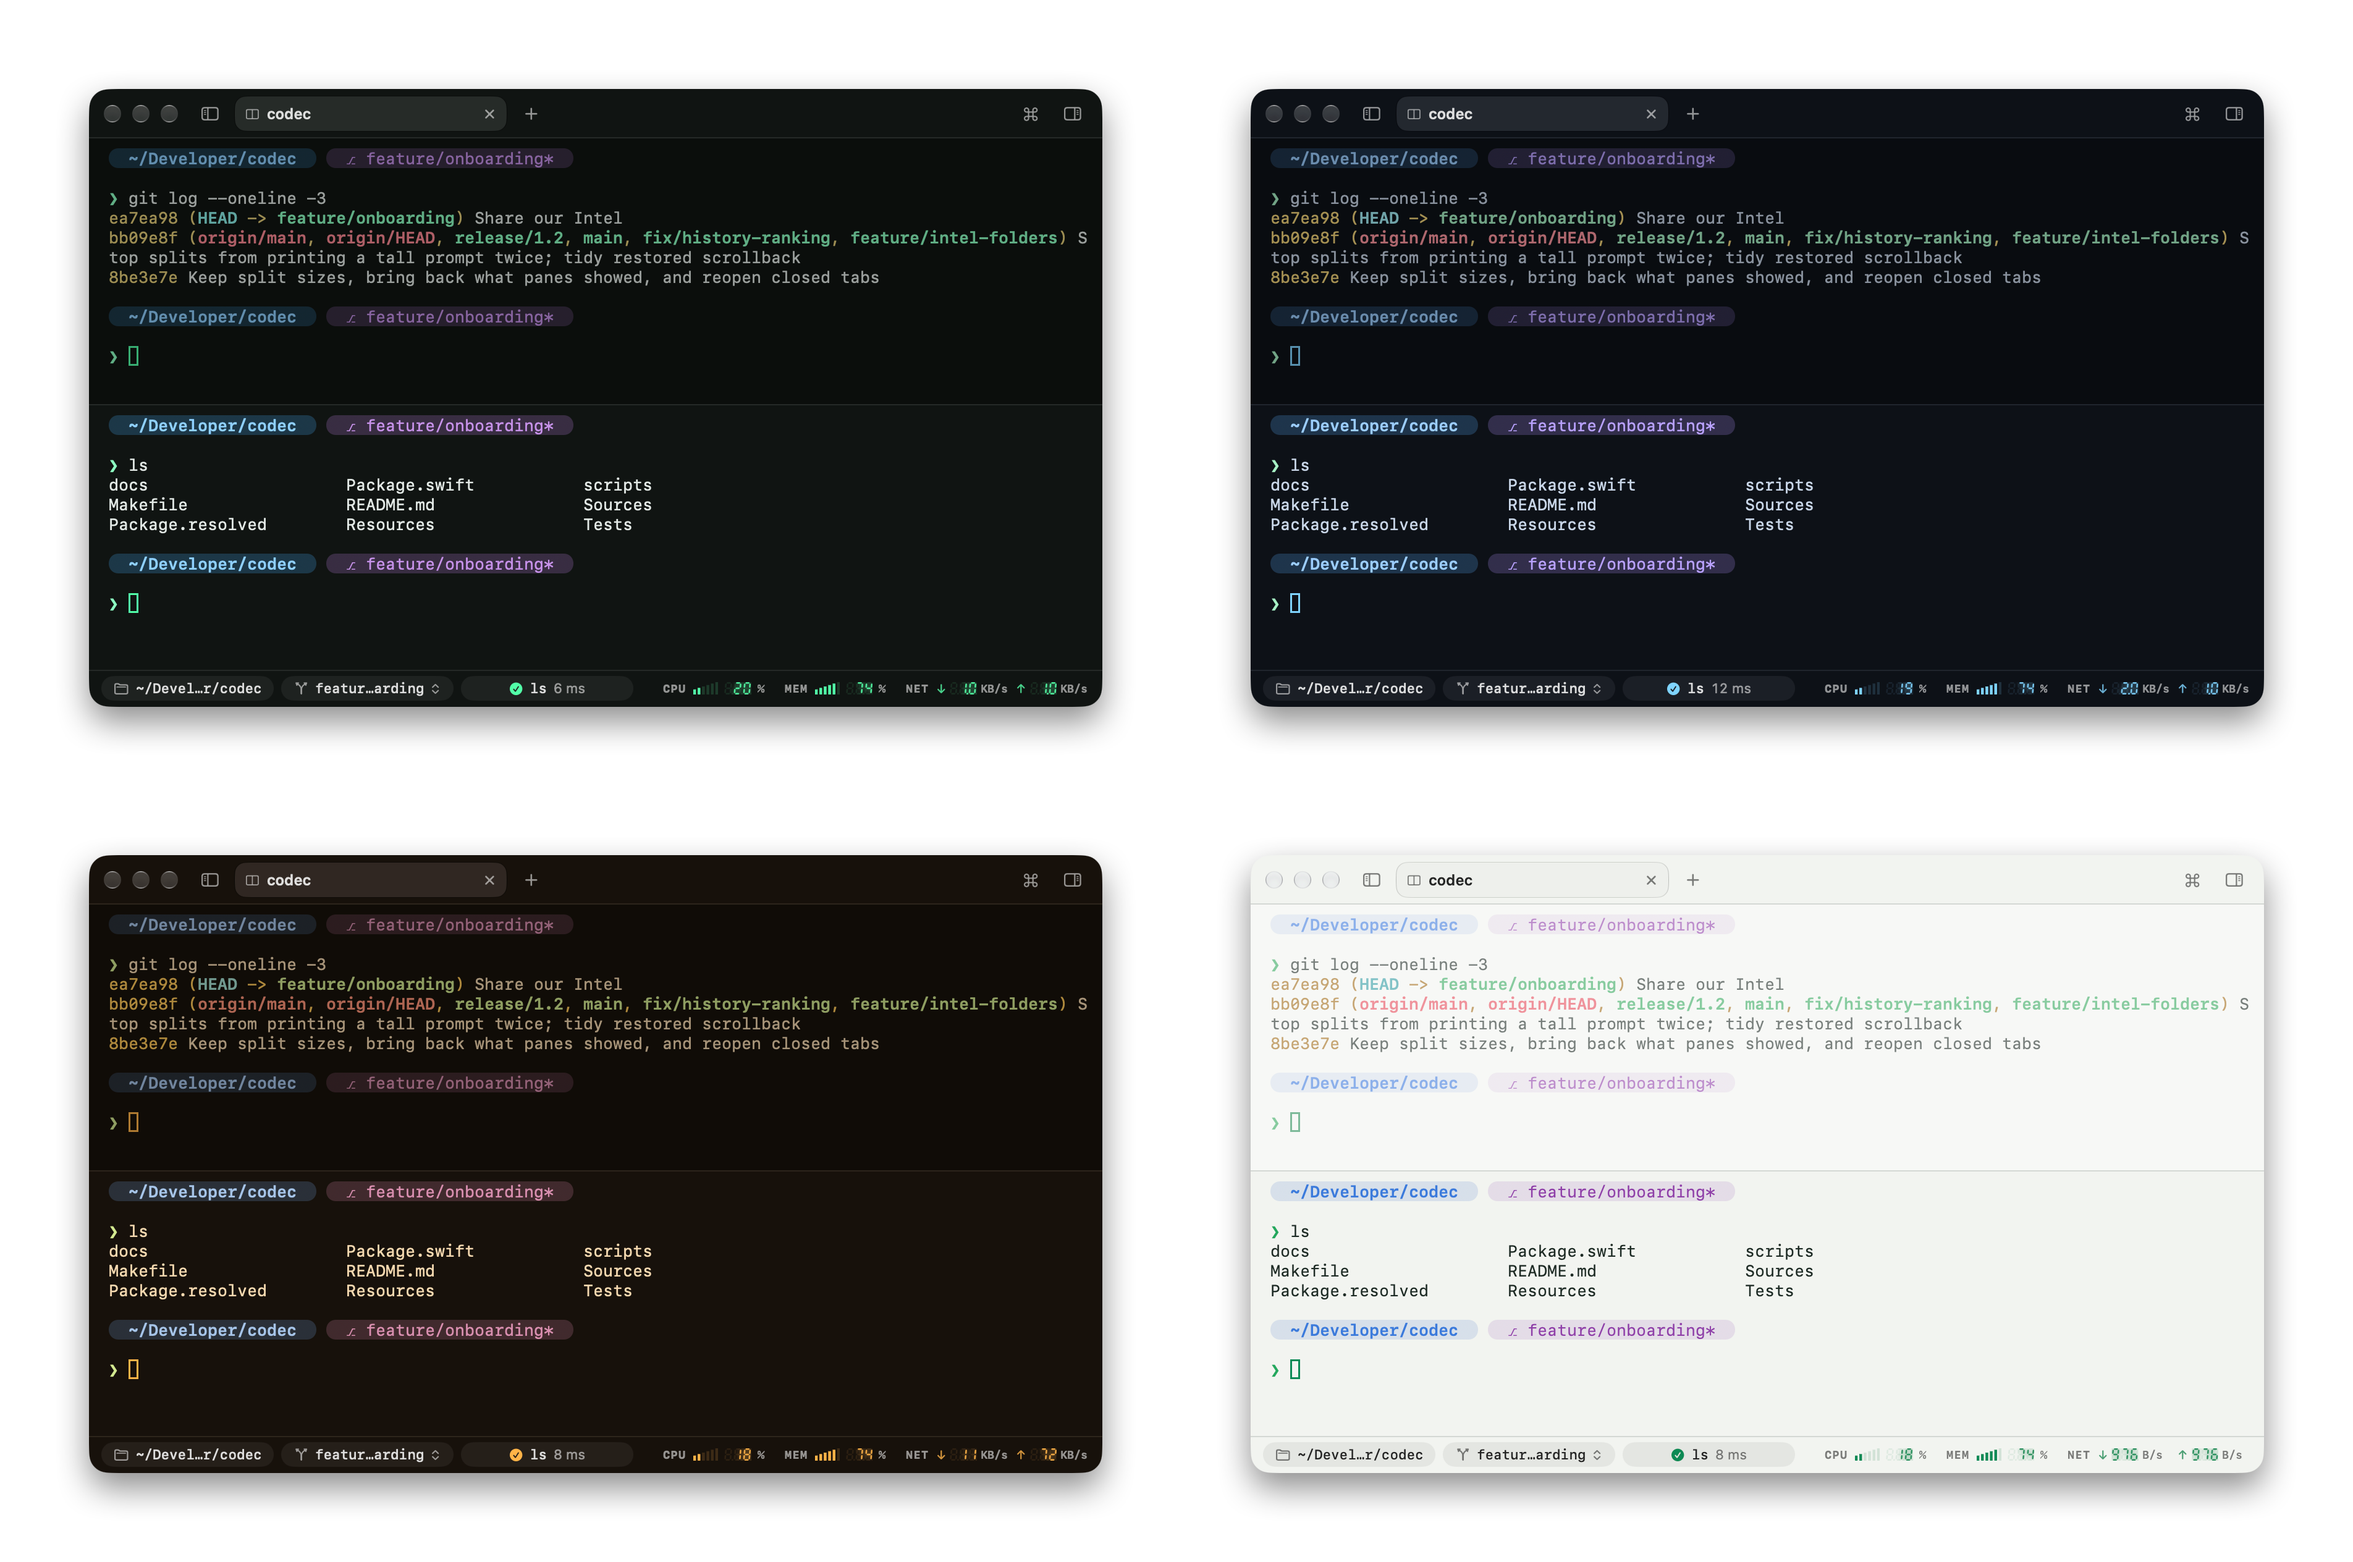
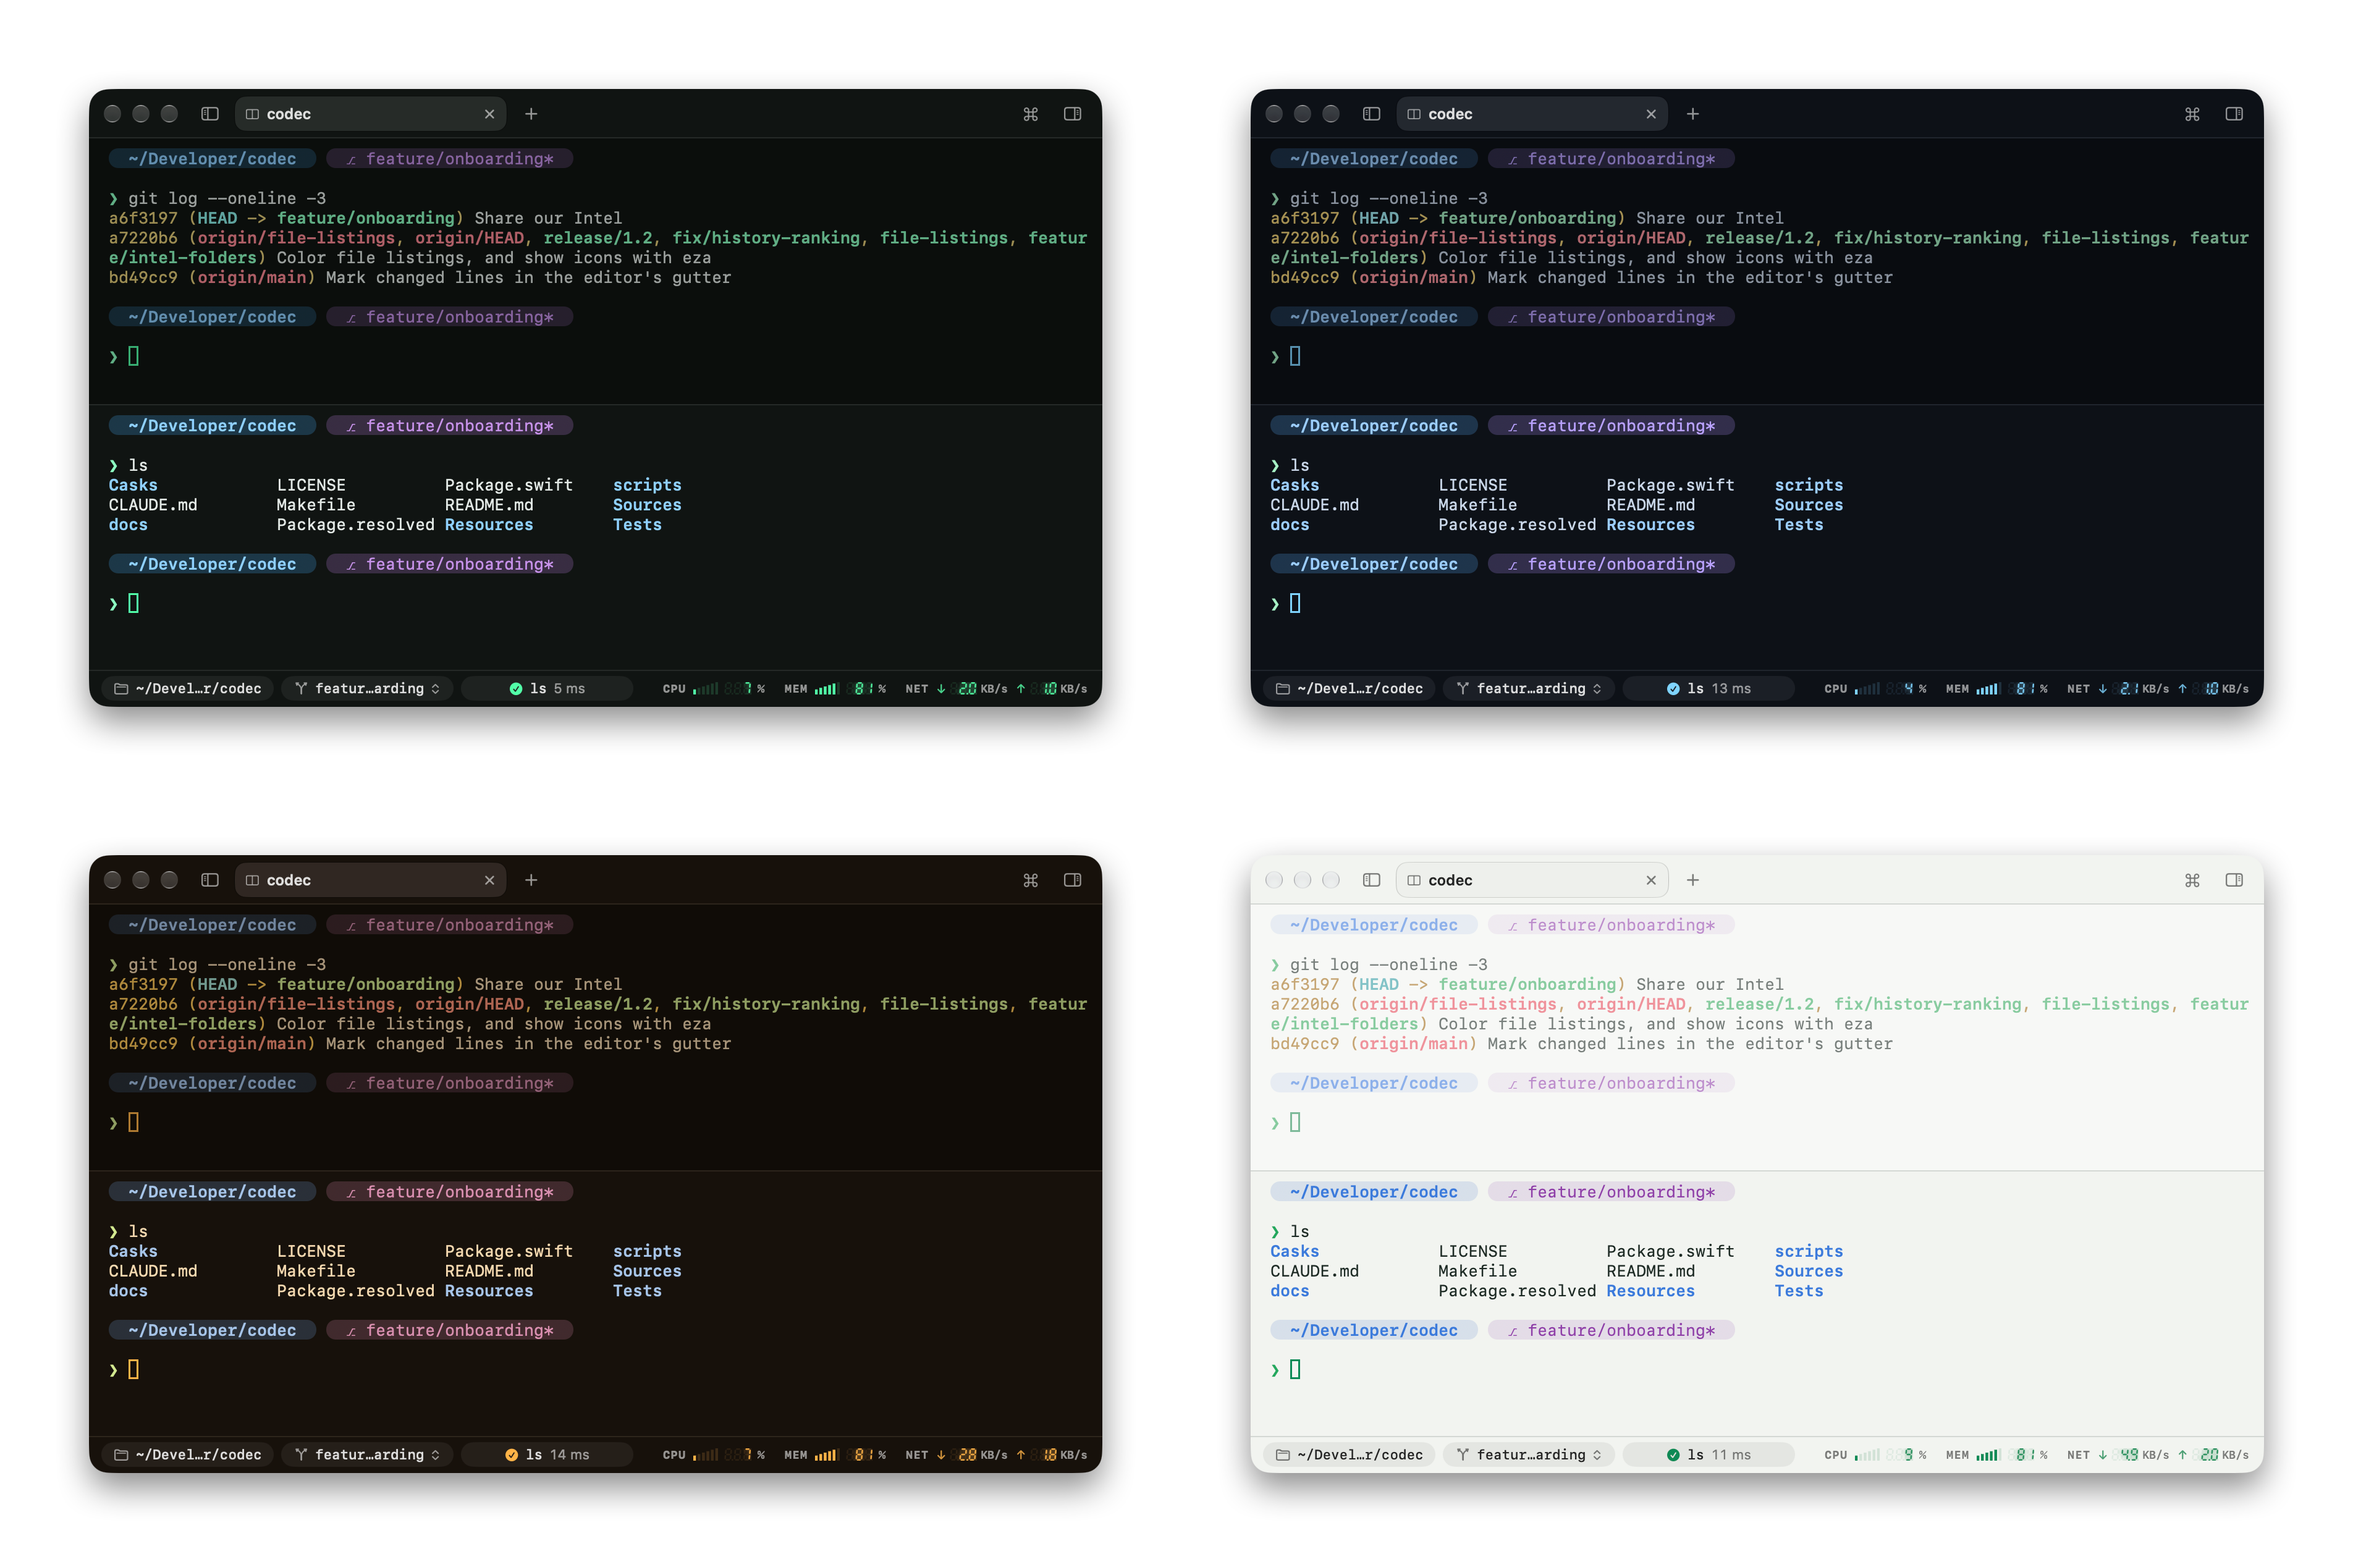
Retake the screenshots, with a file listing
The tour gains a shot of ls through eza, with icons and a long listing
with git's status, for the Listing files section of the command line
docs. It clears NO_COLOR, which swift test sets and the panes would pass
on to eza; Codec opened from the Finder has none. The open-file shot
lists ten files now, as the two new ones in CodecCore pushed
FileTree.swift past the eighth.

diff --git a/Tests/CodecUITests/ScreenshotTour.swift b/Tests/CodecUITests/ScreenshotTour.swift
@@ -29,6 +29,10 @@ struct ScreenshotTour {
         }
         try makeHome(home, project: project)
         setenv("ZDOTDIR", home.path, 1)
+        // swift test sets NO_COLOR, which the panes would pass on to eza; Codec opened from the Finder has none.
+        let noColor = ProcessInfo.processInfo.environment["NO_COLOR"]
+        unsetenv("NO_COLOR")
+        defer { if let noColor { setenv("NO_COLOR", noColor, 1) } }
         var prompt = PromptConfiguration.default
         prompt.style = .codec
         env.preferences.prompt = prompt
@@ -48,6 +52,7 @@ struct ScreenshotTour {
         try await history(env, project: project)
         try await editor(env, project: project)
         try await openFile(env, project: project)
+        try await listing(env, project: project)
         try await branches(env, project: project)
         try await themes(env, project: project)
         try await usualDuration(env, project: project)
@@ -146,11 +151,26 @@ struct ScreenshotTour {
         let (controller, pane) = try await window(env, project: project, size: NSSize(width: 900, height: 480))
         defer { close(controller) }
         try await run("ls", in: pane)
-        try await run("ls Sources/CodecCore | head -8", in: pane)
+        try await run("ls Sources/CodecCore | head -10", in: pane)
         try point(pane, at: "FileTree.swift")
         pane.refreshFileLink(modifiers: .command)
         try await settle(seconds: 0.5)
         try await capture(controller.window!, as: "open-file")
+    }
+
+    /// `ls` through eza, with icons and folders first, then a long listing with git's status; plain
+    /// `ls` where eza isn't installed.
+    private func listing(_ env: TestEnvironment, project: URL) async throws {
+        if !Eza.isInstalled() { Issue.record("eza isn't installed, so the listing shows no icons") }
+        env.preferences.ezaForLs = true
+        defer { env.preferences.ezaForLs = false }
+        let (controller, pane) = try await window(env, project: project, size: NSSize(width: 900, height: 560))
+        defer { close(controller) }
+        try await run("ls", in: pane)
+        // Not piped: eza leaves icons and color out when it isn't writing to a terminal.
+        try await run("ls -l --git --no-user --no-time", in: pane)
+        try await settle()
+        try await capture(controller.window!, as: "listing")
     }
 
     /// Puts the pointer on the last `name` on screen, as the terminal lays out its cells.
@@ -374,6 +394,7 @@ struct ScreenshotTour {
         // `make test` stands in for the test suite: test output for twelve seconds, rather than a real build.
         let zshrc = #"""
             export EDITOR=vim
+            path+=(/opt/homebrew/bin /usr/local/bin)
             HISTFILE=~/.zsh_history
             PS1='%~ %# '
             make() {

diff --git a/docs/command-line.md b/docs/command-line.md
@@ -78,6 +78,8 @@ Codec loads zsh's completion system if your `.zshrc` doesn't, and never override
 
 `ls` shows files in color: folders blue, links cyan, executables green, and every other file in the color its icon has in the [file tree](files-and-editor.md#file-tree), so Swift files are red and Markdown is blue in both. They're the theme's terminal colors, so a listing follows the theme. The same colors go to eza, GNU `ls` and the completion menu, through `CLICOLOR`, `LSCOLORS` and `LS_COLORS`; any of those your own startup files set wins.
 
+![ls through eza: an icon by each name, folders first, and a long listing with git's status](images/listing.png)
+
 With [eza](https://eza.rocks) installed, turn on Settings › Shell › Use eza for ls and `ls` runs `eza --icons=auto --group-directories-first`: an icon by each name, folders first. An `ls` alias or function of your own is left alone, unless all it does is turn on color (`ls -G`). zsh only.
 
 Without eza, Settings offers to install it: Install with Homebrew runs `brew install eza` in a new tab, where you can watch it, and turns the setting on for the panes you open after. Without Homebrew, it links to eza's install instructions.
